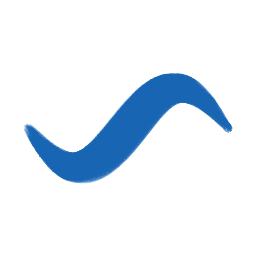
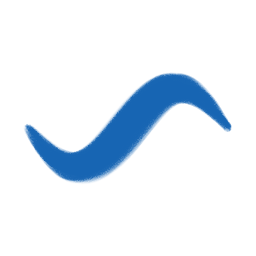
fix(Painter 16/10, prompt 42): a camada que desce leva a sua água — sem o halo branco no Ink Brush; o Marker Liner na lei de largura dele
O assentar do Glaze levava o azul molhado para sett e deixava a água limpa, que escorria e arrastava o azul
vizinho (halo +72 → +35). Ink Brush Glaze 1,0 → 0,8 (a fracção que o oráculo mediu); Marker Liner dureza 0,9 →
0,55 (borda 0,874 → 0,721, Rebelle 0,716). Glaze 0 ao byte. Doc 42 §6.

diff --git a/crates/ph2d-tool-painter/tests/it/sonda_midias.rs b/crates/ph2d-tool-painter/tests/it/sonda_midias.rs
@@ -477,7 +477,7 @@ fn sonda_a_celula_do_cruzamento() {
             assert!(t.wet_preset_aplicar(&p).is_empty());
             t.set_brush_size_px(c.raio.unwrap_or(c.alvo * 0.5));
             aplica_variante(&mut t, v);
-            let mut le = |t: &mut PainterTool, quando: &str| {
+            let le = |t: &mut PainterTool, quando: &str| {
                 t.wet_sonda_motor(|e| {
                     let g = e.active_grid();
                     let razao = 1000.0 / g.w as f64;
@@ -518,6 +518,112 @@ fn sonda_a_celula_do_cruzamento() {
                 t.on_tick(1000.0 / 60.0);
             }
             le(&mut t, "seco");
+        }
+    }
+}
+
+/// **SONDA (prompt 42b): o PERFIL do cruzamento no tempo** — as células da linha azul (`y` 480) de um lado ao outro
+/// do vermelho (`PH2D_SONDA_XS="250,260,…"`, na escala da cena), depois do azul, depois do vermelho e em
+/// `PH2D_SONDA_TEMPOS` quadros: assentado, suspenso, filme, vela e o ecrã seco. Mostra onde nasce o halo.
+#[test]
+#[ignore = "sonda: o perfil do cruzamento no tempo (prompt 42b); corre-se à mão"]
+fn sonda_o_perfil_do_cruzamento() {
+    use super::sonda_gestos::{AZUL, VERMELHO, gesto};
+    let so = std::env::var("PH2D_SONDA_SO").ok();
+    let xs: Vec<f64> = std::env::var("PH2D_SONDA_XS").map_or_else(
+        |_| (0..=20).map(|k| 250.0 + 5.0 * f64::from(k)).collect(),
+        |v| v.split(',').map(|x| x.parse().unwrap()).collect(),
+    );
+    let tempos: Vec<u32> = std::env::var("PH2D_SONDA_TEMPOS").map_or_else(
+        |_| vec![0, 30, 120, 480, 1800],
+        |v| v.split(',').map(|x| x.parse().unwrap()).collect(),
+    );
+    let ys: Vec<f64> = std::env::var("PH2D_SONDA_YS").map_or_else(
+        |_| vec![480.0],
+        |v| v.split(',').map(|x| x.parse().unwrap()).collect(),
+    );
+    let leis = variantes();
+    for c in receitas().iter().filter(|c| {
+        so.as_deref()
+            .is_none_or(|q| q.split(',').any(|n| n == c.nome))
+    }) {
+        let p0 = preset_de(c);
+        for (vnome, v) in &leis {
+            let mut p = p0.clone();
+            for (k, x) in v {
+                if let Some(k) = k.strip_prefix("k_") {
+                    p.parametros.engine.insert(k.to_owned(), *x);
+                }
+            }
+            let mut t = tela();
+            t.set_wet_relogio_fixo(true);
+            assert!(t.wet_preset_aplicar(&p).is_empty());
+            t.set_brush_size_px(c.raio.unwrap_or(c.alvo * 0.5));
+            aplica_variante(&mut t, v);
+            let (xs, ys) = (&xs, &ys);
+            let le = |t: &mut PainterTool, quando: &str| {
+                t.wet_sonda_motor(|e| {
+                    let g = e.active_grid();
+                    let razao = 1000.0 / g.w as f64;
+                    let ecra0 = e.sim.gather_params(&e.tuning).ecra;
+                    for &y in ys {
+                        println!("[perfil {}@{vnome}] {quando} y {y} (razão {razao:.2})", c.nome);
+                        for &x in xs {
+                            let (cx, cy) = ((x / razao) as usize + 1, (y / razao) as usize + 1);
+                            let i = cx + cy * g.s;
+                            let ec = ecra0.com_vela(g.vela[i]);
+                            let a = |m: f32| ph2d_wet_paint::opacity::alpha_of_mass(f64::from(m));
+                            let ecra = ph2d_wet_paint::assenta::sobre_branco(
+                                ec.seco(),
+                                g.sett_rgb[i].map(f64::from),
+                                g.susp_rgb[i].map(f64::from),
+                                a(g.sett[i]),
+                                a(g.susp[i]),
+                            );
+                            println!(
+                                "  x {x:5.0} sett {:7.1} {:?} susp {:7.1} {:?} film {:.4} wet {:3} vela {:.3} → {:?}",
+                                g.sett[i],
+                                g.sett_rgb[i].map(|v| v.round() as i32),
+                                g.susp[i],
+                                g.susp_rgb[i].map(|v| v.round() as i32),
+                                g.film[i],
+                                g.wet[i],
+                                g.vela[i],
+                                ecra.map(|v| v.round() as i32)
+                            );
+                        }
+                    }
+                });
+            };
+            // `PH2D_SONDA_CENA=azul|vermelho`: só um dos traços (a massa de cada um, para o balanço do cruzamento).
+            let cena = std::env::var("PH2D_SONDA_CENA").unwrap_or_default();
+            if cena != "vermelho" {
+                t.set_brush_color_srgb8(AZUL);
+                gesto(&mut t, &[[60.0, 480.0], [560.0, 480.0]], 3.0, |_| 1.0);
+                le(&mut t, "azul");
+            }
+            if cena != "azul" {
+                t.set_brush_color_srgb8(VERMELHO);
+                gesto(&mut t, &[[300.0, 400.0], [300.0, 560.0]], 3.0, |_| 1.0);
+            }
+            let mut feito = 0;
+            for &q in &tempos {
+                for _ in feito..q {
+                    t.on_tick(1000.0 / 60.0);
+                }
+                feito = q;
+                le(&mut t, &format!("vermelho+{q}"));
+            }
+            if let Ok(dir) = std::env::var("PH2D_SONDA_OUT") {
+                let (px, w, h) = ph2d_editor_core::tool::RasterEditTool::run_full(&mut t);
+                std::fs::create_dir_all(&dir).unwrap();
+                escreve_ppm(
+                    &Path::new(&dir).join(format!("perfil_{}@{vnome}.ppm", c.nome)),
+                    &px,
+                    w,
+                    h,
+                );
+            }
         }
     }
 }

diff --git a/crates/ph2d-tool-painter/tests/it/midias_de_fabrica.rs b/crates/ph2d-tool-painter/tests/it/midias_de_fabrica.rs
@@ -267,3 +267,95 @@ fn cada_preset_parece_a_sua_midia() {
     }
     assert!(falhas.is_empty(), "{}", falhas.join("\n"));
 }
+
+/// **SONDA (prompt 42b): as métricas de um preset com knobs trocados** — `PH2D_SONDA_PRESETS="Ink Brush,…"` (por
+/// omissão a tinta e o marcador) × `PH2D_SONDA_KNOBS="nome:k=v,b.k=v|…"` (`k` no mapa do motor, `b.k` no do
+/// pincel; a variante vazia é o preset de fábrica), a cena seca medida como [`cada_preset_parece_a_sua_midia`],
+/// com o vale de cada métrica. `PH2D_SONDA_RAIO=<r>` troca o raio da cena.
+#[test]
+#[ignore = "sonda: as métricas das variantes de um preset (prompt 42b); corre-se à mão"]
+fn sonda_as_metricas_das_variantes() {
+    let presets: Vec<String> = std::env::var("PH2D_SONDA_PRESETS").map_or_else(
+        |_| {
+            [
+                "Ink Bullet",
+                "Dip Pen",
+                "Ink Brush",
+                "Marker Bullet",
+                "Marker Liner",
+            ]
+            .map(str::to_owned)
+            .to_vec()
+        },
+        |v| v.split(',').map(str::to_owned).collect(),
+    );
+    let variantes: Vec<(String, Vec<(String, f64)>)> = std::env::var("PH2D_SONDA_KNOBS")
+        .map_or_else(
+            |_| vec![(String::new(), Vec::new())],
+            |v| {
+                v.split('|')
+                    .map(|s| {
+                        let (n, kv) = s.split_once(':').unwrap_or((s, ""));
+                        let kv = kv
+                            .split(',')
+                            .filter(|x| !x.is_empty())
+                            .map(|x| {
+                                let (k, v) = x.split_once('=').unwrap();
+                                (k.to_owned(), v.parse().unwrap())
+                            })
+                            .collect();
+                        (n.to_owned(), kv)
+                    })
+                    .collect()
+            },
+        );
+    let raio_fixo: Option<f32> = std::env::var("PH2D_SONDA_RAIO")
+        .ok()
+        .and_then(|v| v.parse().ok());
+    let round = &de_fabrica("Wet Round");
+    std::thread::scope(|s| {
+        for nome in &presets {
+            let m = MIDIAS.iter().find(|m| m.preset == nome).unwrap();
+            let raio = raio_fixo.unwrap_or(m.raio);
+            let c = s.spawn(move || cena_seca(round, raio, &[]));
+            let hs: Vec<_> = variantes
+                .iter()
+                .map(|(vn, kv)| {
+                    let mut p = de_fabrica(nome);
+                    for (k, x) in kv {
+                        if let Some(b) = k.strip_prefix("b.") {
+                            p.parametros
+                                .brush
+                                .insert(b.to_owned(), serde_json::json!(x));
+                        } else {
+                            p.parametros.engine.insert(k.clone(), *x);
+                        }
+                    }
+                    let f = format!("{nome}@{vn}");
+                    (vn, s.spawn(move || cena_seca(&p, raio, &[f])))
+                })
+                .collect();
+            let c = c.join().unwrap();
+            for (vn, h) in hs {
+                let n = h.join().unwrap();
+                let linha: Vec<String> = m
+                    .metricas
+                    .iter()
+                    .map(|&(met, r)| {
+                        let (nv, cv) = (met.de(&n), met.de(&c));
+                        let ok = match met {
+                            Tinta => (nv - r).abs() < 4.0 * met.ruido(),
+                            Cruzamento => (nv - r).abs() < 3.0 * met.ruido(),
+                            _ => no_vale(nv, r, cv),
+                        };
+                        format!(
+                            "{met:?} {nv:.3} (R {r} c {cv:.3}){}",
+                            if ok { "" } else { " ✗" }
+                        )
+                    })
+                    .collect();
+                println!("[metricas] {nome}@{vn} r {raio}: {}", linha.join(" · "));
+            }
+        }
+    });
+}

diff --git a/crates/ph2d-tool-painter/tests/it/receitas_de_fabrica.rs b/crates/ph2d-tool-painter/tests/it/receitas_de_fabrica.rs
@@ -391,7 +391,9 @@ pub const RECEITAS: [Receita; PRESETS_DE_FABRICA] = [
         bristle_count: 2000.0,
         hardness: 0.1,
         size_px: None,
-        extras: &[("extDiffusion", 0.01), ("glaze", 1.0)],
+        // Glaze 0,8: a fracção multiplicada que o oráculo MEDIU nesta tinta (doc 42 §3: 0,76 · 0,82); o 1,0 de antes
+        // compensava o halo e o azul arrastado para baixo (doc 42 §6).
+        extras: &[("extDiffusion", 0.01), ("glaze", 0.8)],
         grao: None,
         spacing: None,
         achatado: None,
@@ -466,7 +468,8 @@ pub const RECEITAS: [Receita; PRESETS_DE_FABRICA] = [
         achatado: None,
         pincel: &[],
     },
-    // Marker › Marker Liner: o mesmo marcador, mais duro (a foto é fina: 18 px).
+    // Marker › Marker Liner: o mesmo marcador, a foto é fina (18 px): a dureza
+    // medida à lei de largura do PRÓPRIO preset (raio 9; doc 42 §6) — 0,9 dava a borda 0,874 (Rebelle 0,716).
     Receita {
         meio: "Marker",
         grupo: "Marker",
@@ -481,7 +484,7 @@ pub const RECEITAS: [Receita; PRESETS_DE_FABRICA] = [
         tilt: DIREITA,
         bristle_size: 2.0,
         bristle_count: 2000.0,
-        hardness: 0.9,
+        hardness: 0.55,
         size_px: None,
         extras: &[("glaze", 1.0)],
         grao: None,

diff --git a/crates/ph2d-wet-paint/src/trail/transfer.rs b/crates/ph2d-wet-paint/src/trail/transfer.rs
@@ -287,6 +287,11 @@ impl Trail {
                         if dm > 0.0 {
                             let e = p.ecra.com_vela(g.vela[i]);
                             crate::grid::settle_composite(g, i, dm, p.mix, p.glaze, e, &mut out);
+                            // A camada que vai para BAIXO leva a sua água (a fracção que assentou): deixada no
+                            // filme, a orla do traço novo (que quase nada pousa) virava água LIMPA ao lado do azul
+                            // molhado e escoava-o — o halo branco do Ink Brush (doc 42 §6).
+                            let fica = 1.0 - dm / g.susp[i] as f64;
+                            g.film[i] = (g.film[i] as f64 * fica) as f32;
                             g.sett[i] = (g.sett[i] as f64 + dm) as f32;
                             g.susp[i] = (g.susp[i] as f64 - dm) as f32;
                         }

diff --git a/docs/Painter/NewFeaturesWetPaint/42_medicao_a_lei_da_tinta.md b/docs/Painter/NewFeaturesWetPaint/42_medicao_a_lei_da_tinta.md
@@ -89,3 +89,27 @@ branco: o 1.º envio da sessão foi antes de a tela existir.)
 - **O formato**: o Glaze é o knob `glaze` no mapa `engine` do preset, por NOME — um preset sem a chave lê 0 (a lei
   da obra); `SCHEMA` fica 1 (o leitor ignora chaves que não conhece: um build antigo pinta-o sem Glaze, não o
   recusa nem o lê errado). A macro leva-o (o estado inicial é o preset capturado).
+
+## §6 — O halo do Ink Brush e o «azul por cima» (prompt 42b, sondas `sonda_o_perfil_do_cruzamento` e `sonda_as_metricas_das_variantes`)
+
+**Mecanismo (medido célula a célula, Glaze 1 contra Glaze 0):** o assentar do Glaze levava 100 % do azul molhado para
+`sett` mesmo onde o carimbo quase nada pousava — na orla mole da coluna (dureza 0,1) a célula `x 279` recebia ~2 de
+vermelho e assentava 1 083 de azul, MAS ficava com a água toda (filme 0,63, suspenso 0). Essa água LIMPA escoava para o
+azul vizinho ainda molhado e levava-lhe o pigmento: `x 277` (y 488) suspenso 440 → 265 → 115 em 0 / 60 / 120 quadros,
+assentado seco 184 contra 750 do azul (o halo, +72 de luminância). Com Glaze 0 a mesma célula tem suspenso 1 084 e
+nada escoa. Refutado: a difusão (`extDiffusion` 0 → halo +75) e o arrasto (só desloca o azul ~6 px para baixo, igual
+com Glaze 0).
+
+**Lei:** a camada que vai para baixo leva a sua água (`film × (1 − dm/susp)`, `trail/transfer.rs`). Halo +72 → sem
+halo branco; Glaze 0 ao byte. A orla fica com uma linha azul mais escura (o azul molhado que entra na célula agora seca).
+
+| recusado (medido) | porquê |
+|---|---|
+| assentar pela cobertura do carimbo (`× in_a`) | halo +9, mas o resto do azul repinta-se de vermelho a cada carimbo: Ink Brush 0,51, Marker Bullet 0,18 |
+| rampa `min(1, in_a/A0)` + água | cura também a linha da orla; custa aos marcadores (A0 0,01: Liner 0,060, Bullet 0,038; 0,05: 0,072/0,070) |
+| o arrasto não move a camada de baixo | congela as estrias de cerda do azul (riscas horizontais) |
+| vela sem média pela massa | muda os outros quatro (Dip Pen 0,217 → 0,128, Ink Bullet 0,113 → 0,055) |
+
+**Receitas:** Ink Brush Glaze 1 → **0,8** (a fracção multiplicada que o oráculo mediu, §3: 0,76 · 0,82): cruzamento
+0,257 (Rebelle 0,239), miolo (97,40,68) contra (95,37,55). Marker Liner dureza 0,9 → **0,55**, medida à lei de
+largura do próprio preset (raio 9): borda 0,721 (Rebelle 0,716), textura 2,78, cruzamento 0,043.
